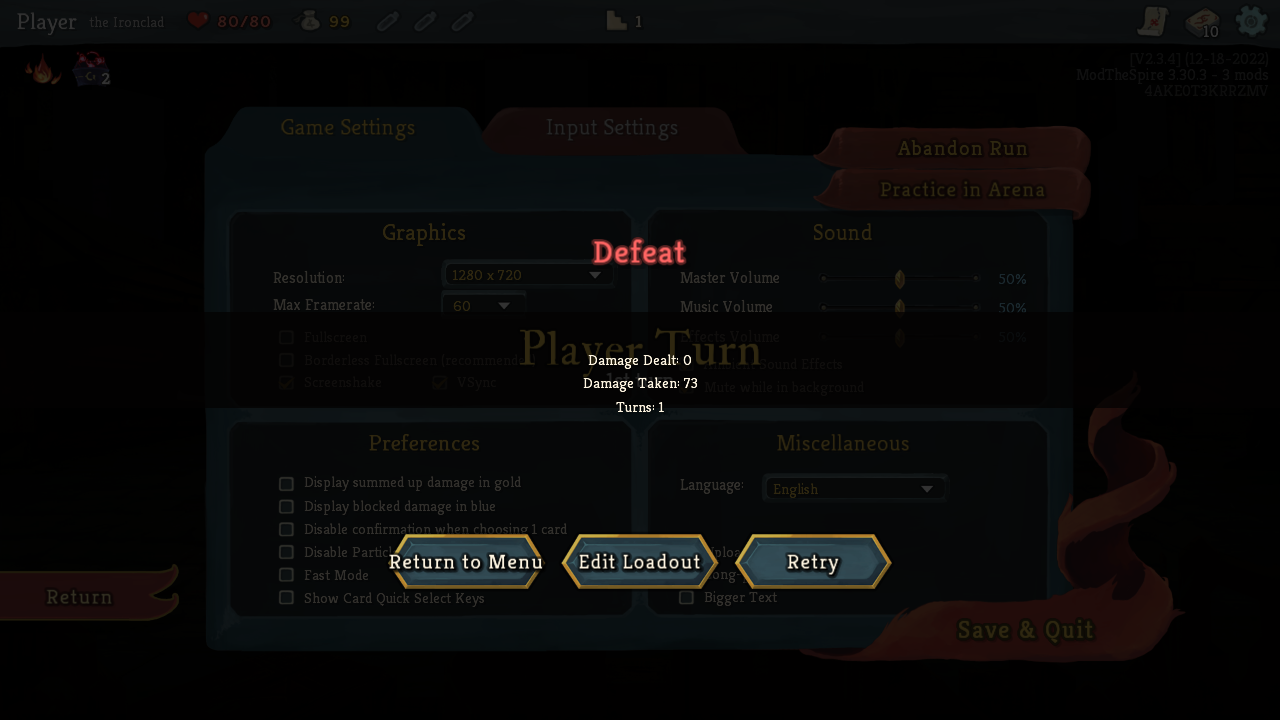
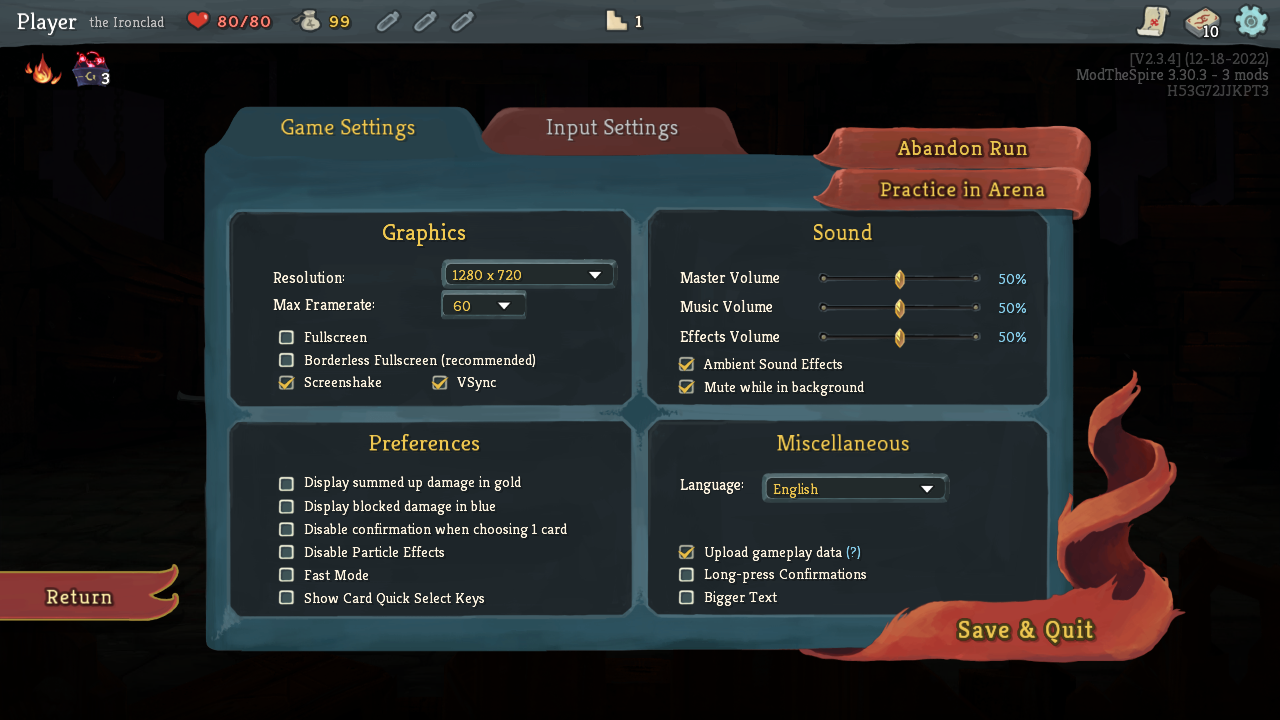
Fix arena UI issues and improve stats screen
- Fix ArenaResultsScreen staying open after screenshot mode disabled
  by checking screenshot mode dynamically in update()
- Fix ghost buttons on defeat screen by checking if results screen is
  open before rendering ArenaDeathScreenButtonsPatch buttons
- Change "Return to Menu" button to "Continue" to fix text overflow
- Close results screen on arena_back command and main menu return
- Simplify Pareto-best wording to "best victories (least damage taken
  or fewest potions used)"
- Remove turns from Pareto criteria - only compare damage taken and
  potions used
- Fix encounter name normalization to handle spaceless versions like
  "JawWorm" -> "Jaw Worm" and "2Louse" -> "2 Louse"
- Update documentation screenshots

diff --git a/src/main/java/stsarena/communication/ArenaCommand.java b/src/main/java/stsarena/communication/ArenaCommand.java
@@ -161,8 +161,9 @@ public class ArenaCommand implements CommandExecutor.CommandExtension {
     /**
      * Normalize an encounter name to match the correct case from LoadoutConfig.ENCOUNTERS.
      * CommunicationMod may lowercase commands, so we need case-insensitive lookup.
+     * Also handles spaceless versions like "JawWorm" -> "Jaw Worm".
      *
-     * @param rawEncounter The raw encounter name (possibly lowercase)
+     * @param rawEncounter The raw encounter name (possibly lowercase or without spaces)
      * @return The correctly-cased encounter name, or the original if not found
      */
     private static String normalizeEncounterName(String rawEncounter) {
@@ -171,11 +172,14 @@ public class ArenaCommand implements CommandExecutor.CommandExtension {
         }
 
         String lowerRaw = rawEncounter.toLowerCase();
+        String lowerRawNoSpaces = lowerRaw.replace(" ", "");
 
         // Search through all encounter categories
         for (LoadoutConfig.EncounterCategory category : LoadoutConfig.ENCOUNTER_CATEGORIES) {
             for (String encounter : category.encounters) {
-                if (encounter.toLowerCase().equals(lowerRaw)) {
+                String lowerEnc = encounter.toLowerCase();
+                String lowerEncNoSpaces = lowerEnc.replace(" ", "");
+                if (lowerEnc.equals(lowerRaw) || lowerEncNoSpaces.equals(lowerRawNoSpaces)) {
                     STSArena.logger.info("ARENA: Normalized encounter '" + rawEncounter + "' -> '" + encounter + "'");
                     return encounter;
                 }
@@ -184,7 +188,9 @@ public class ArenaCommand implements CommandExecutor.CommandExtension {
 
         // Also check the flat ENCOUNTERS array (for any stragglers)
         for (String encounter : LoadoutConfig.ENCOUNTERS) {
-            if (encounter.toLowerCase().equals(lowerRaw)) {
+            String lowerEnc = encounter.toLowerCase();
+            String lowerEncNoSpaces = lowerEnc.replace(" ", "");
+            if (lowerEnc.equals(lowerRaw) || lowerEncNoSpaces.equals(lowerRawNoSpaces)) {
                 STSArena.logger.info("ARENA: Normalized encounter '" + rawEncounter + "' -> '" + encounter + "'");
                 return encounter;
             }

diff --git a/src/main/java/stsarena/screens/ArenaStatsScreen.java b/src/main/java/stsarena/screens/ArenaStatsScreen.java
@@ -210,7 +210,7 @@ public class ArenaStatsScreen {
 
         // Subtitle
         FontHelper.renderFontCentered(sb, FontHelper.cardDescFont_N,
-            "Click [+] to expand and see Pareto-best victories (optimal in turns, damage taken, or potions used)",
+            "Click [+] to see your best victories (least damage taken or fewest potions used)",
             Settings.WIDTH / 2.0f, TITLE_Y - 30.0f * Settings.scale, Settings.CREAM_COLOR);
 
         // Column headers
@@ -330,10 +330,9 @@ public class ArenaStatsScreen {
         sb.draw(ImageMaster.WHITE_SQUARE_IMG, LEFT_X + 30.0f * Settings.scale, y - PARETO_ROW_HEIGHT,
             TABLE_WIDTH - 30.0f * Settings.scale, PARETO_ROW_HEIGHT - 2);
 
-        // Build description of this Pareto-optimal victory
+        // Build description of this victory
         StringBuilder desc = new StringBuilder();
-        desc.append(String.format("%d turns", victory.turnsTaken));
-        desc.append(String.format("  |  %d dmg taken", victory.damageTaken));
+        desc.append(String.format("%d dmg taken", victory.damageTaken));
         desc.append(String.format("  |  %d potions", victory.potionsUsed));
         desc.append(String.format("  |  %d/%d HP remaining", victory.endingHp, victory.startingHp));
 

diff --git a/src/main/java/stsarena/data/ArenaRepository.java b/src/main/java/stsarena/data/ArenaRepository.java
@@ -789,22 +789,19 @@ public class ArenaRepository {
         /**
          * Check if this victory is dominated by another (other is strictly better in all metrics).
          * A victory is dominated if another victory has:
-         * - Same or fewer turns
          * - Same or less damage taken
          * - Same or fewer potions used
          * - AND is strictly better in at least one of these
          */
         public boolean isDominatedBy(VictoryRecord other) {
-            boolean sameOrBetterTurns = other.turnsTaken <= this.turnsTaken;
             boolean sameOrBetterDamage = other.damageTaken <= this.damageTaken;
             boolean sameOrBetterPotions = other.potionsUsed <= this.potionsUsed;
 
             boolean strictlyBetterSomewhere =
-                other.turnsTaken < this.turnsTaken ||
                 other.damageTaken < this.damageTaken ||
                 other.potionsUsed < this.potionsUsed;
 
-            return sameOrBetterTurns && sameOrBetterDamage && sameOrBetterPotions && strictlyBetterSomewhere;
+            return sameOrBetterDamage && sameOrBetterPotions && strictlyBetterSomewhere;
         }
     }
 

diff --git a/src/main/java/stsarena/screens/ArenaResultsScreen.java b/src/main/java/stsarena/screens/ArenaResultsScreen.java
@@ -149,11 +149,14 @@ public class ArenaResultsScreen {
             if (fadeAlpha > 1.0f) fadeAlpha = 1.0f;
         }
 
-        // Auto-close timer for perfect victories
-        if (autoCloseEnabled && fadeAlpha >= 1.0f) {
+        // Auto-close logic - check screenshot mode dynamically
+        // Auto-close is enabled for perfect victories and defeats when NOT in screenshot mode
+        // Imperfect victories always require user interaction
+        boolean shouldAutoClose = !STSArena.isScreenshotMode() && (!isVictory || !isImperfect);
+        if (shouldAutoClose && fadeAlpha >= 1.0f) {
             autoCloseTimer += Gdx.graphics.getDeltaTime();
             if (autoCloseTimer >= AUTO_CLOSE_DELAY) {
-                STSArena.logger.info("ARENA: Auto-closing results screen (perfect victory)");
+                STSArena.logger.info("ARENA: Auto-closing results screen");
                 handleContinue();
                 return;
             }

diff --git a/src/main/java/stsarena/communication/ArenaBackCommand.java b/src/main/java/stsarena/communication/ArenaBackCommand.java
@@ -56,6 +56,9 @@ public class ArenaBackCommand implements CommandExecutor.CommandExtension {
     public void execute(String[] tokens) throws InvalidCommandException {
         STSArena.logger.info("arena_back command: closing arena screens and cleaning up state");
 
+        // Close the results screen if it's open
+        STSArena.closeResultsScreen();
+
         // If we're in a dungeon (VictoryScreen, DeathScreen, etc.), trigger return to menu
         if (CommandExecutor.isInDungeon()) {
             STSArena.logger.info("arena_back: in dungeon, triggering startOver to return to menu");

diff --git a/src/main/java/stsarena/patches/ArenaDeathScreenButtonsPatch.java b/src/main/java/stsarena/patches/ArenaDeathScreenButtonsPatch.java
@@ -196,6 +196,11 @@ public class ArenaDeathScreenButtonsPatch {
                 return;
             }
 
+            // Don't render if our results screen is open - it has its own buttons
+            if (STSArena.resultsScreen != null && STSArena.resultsScreen.isOpen) {
+                return;
+            }
+
             // Render Retreat button
             renderButton(sb, retreatHb, "Retreat", retreatClickStarted);
 

diff --git a/src/main/java/stsarena/patches/ClearArenaOnMainMenuPatch.java b/src/main/java/stsarena/patches/ClearArenaOnMainMenuPatch.java
@@ -33,6 +33,9 @@ public class ClearArenaOnMainMenuPatch {
 
             STSArena.logger.info("ARENA: MainMenuScreen created - clearing arena run state");
             ArenaRunner.clearArenaRun();
+
+            // Also close the results screen if it's open
+            STSArena.closeResultsScreen();
         }
     }
 }
